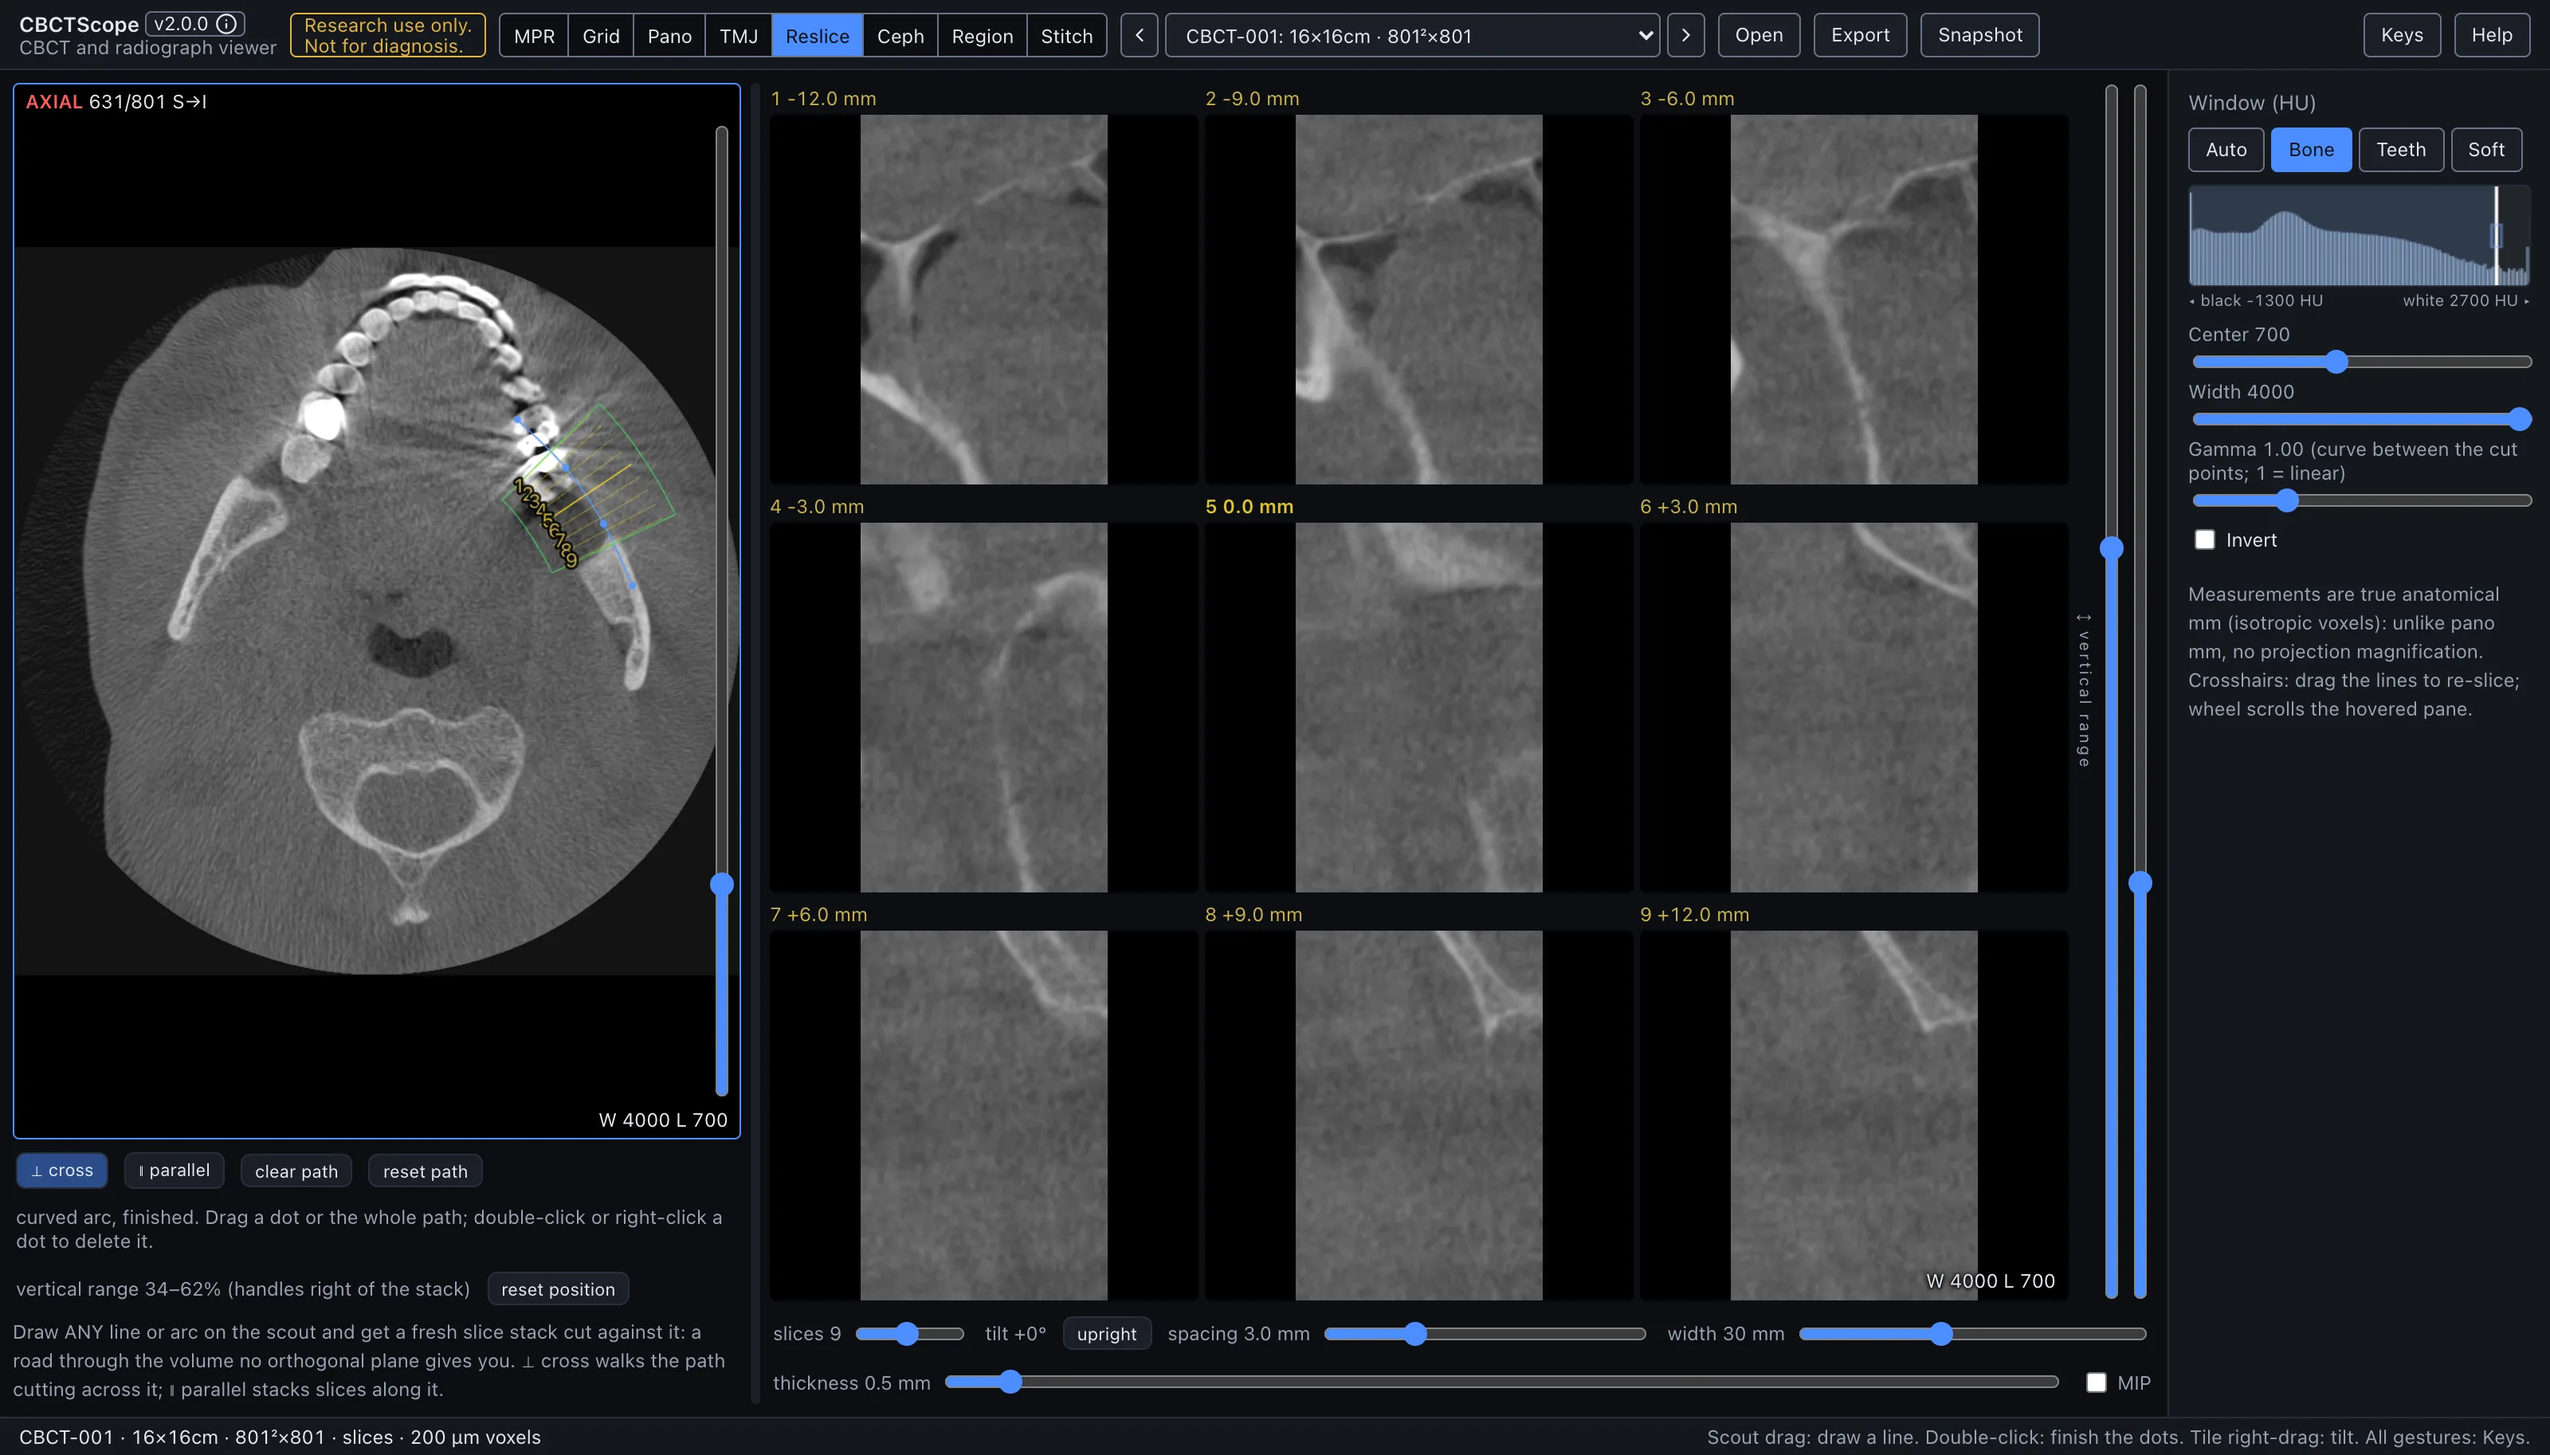
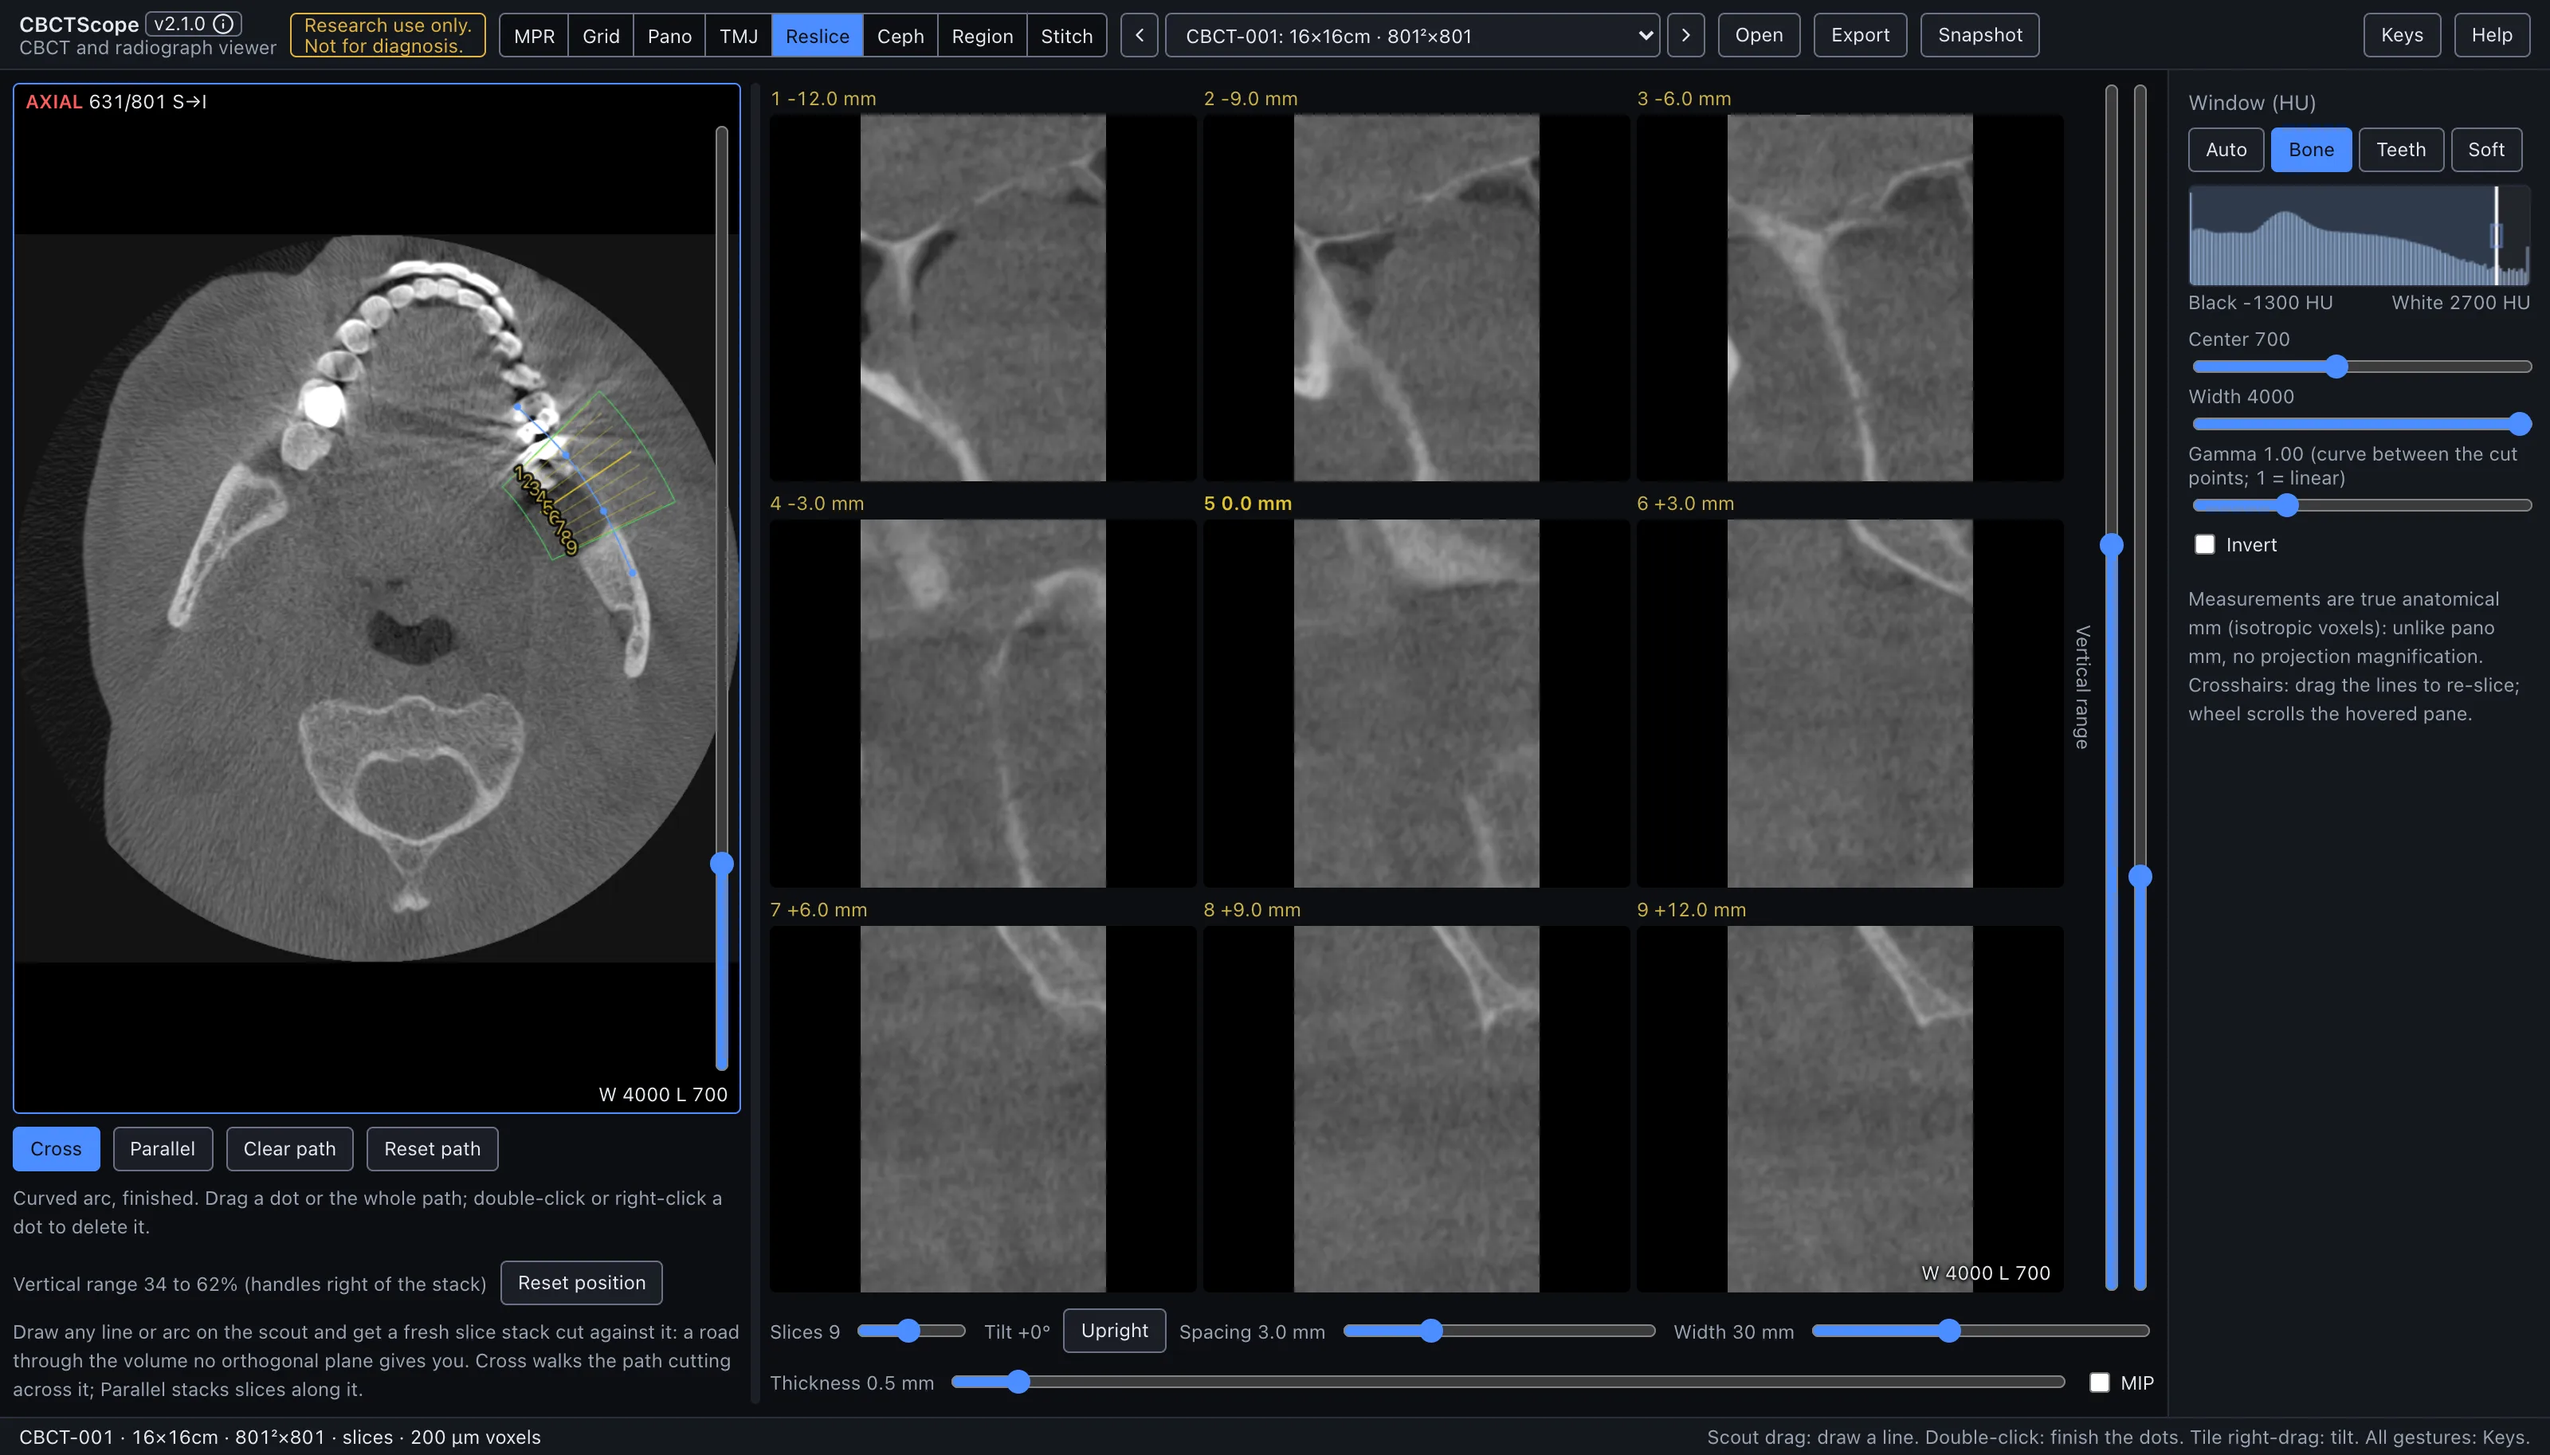
The manual's stills and the README thumbnails show the interface at v2.1.0 with the sentence-case labels and solid selected chips; the web budget is re-measured

diff --git a/tests/webBudget.test.ts b/tests/webBudget.test.ts
@@ -14,8 +14,11 @@ import { describe, expect, it } from 'vitest';
  * Re-measured 2026-11-11 after the manual's stills were recaptured on the redesigned interface
  * (the nine WebP stills 2_120_310 bytes, up 30_564): 10_588_932 bytes, of which manual/ is
  * 2_501_889.
+ *
+ * Re-measured 2026-11-11 after the stills and thumbnails were recaptured at v2.1.0 (the nine WebP
+ * stills 2_135_454 bytes): 10_608_180 bytes, of which manual/ is 2_520_629.
  */
-const MEASURED = 10_588_932;
+const MEASURED = 10_608_180;
 const BUDGET = Math.round(MEASURED * 1.1);
 
 const out = path.join(process.cwd(), 'out');
